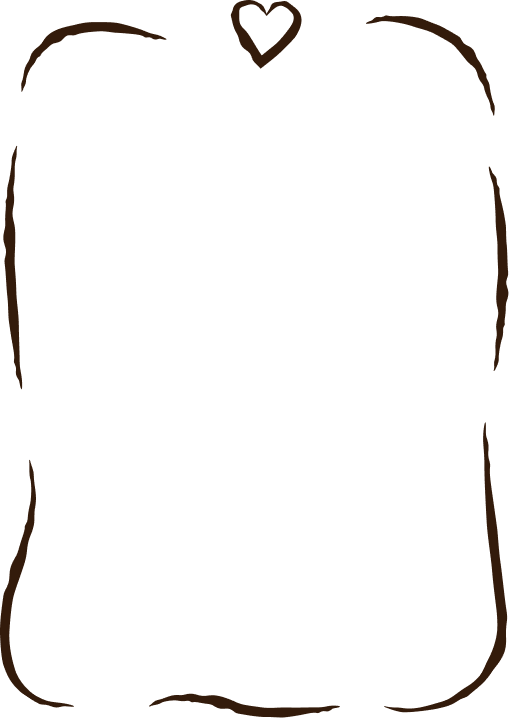
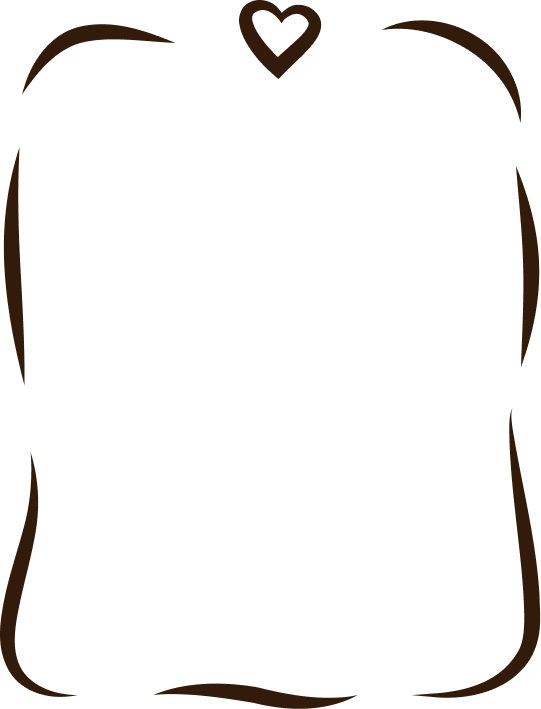
new border and styles

diff --git a/js/script.js b/js/script.js
@@ -3,10 +3,16 @@ $(document).ready(function () {
     const $wrapper = $('.main_wrapper');
     const $body = $('body');
 
+    // Проверяем существование элемента
+    if ($path.length === 0) {
+        console.error('Элемент #myPath не найден');
+        return;
+    }
+
     // Получаем длину линии
     const length = $path[0].getTotalLength();
 
-    // Настраиваем пунктир: линия полностью видна изначально
+    // Настраиваем пунктир
     $path.css({
         'strokeDasharray': length,
         'strokeDashoffset': 0
@@ -16,13 +22,11 @@ $(document).ready(function () {
 
     // Кнопка "Стереть"
     $('#eraseBtn').on('click', function () {
-        // Анимация линии
         $path.css({
             'transition': 'stroke-dashoffset 1s ease-out',
             'strokeDashoffset': length
         });
 
-        // Через 1 секунду после нажатия анимируем main_wrapper
         setTimeout(function () {
             $wrapper.css({
                 'transition': 'transform 0.5s ease-out, opacity 0.5s ease-out',
@@ -30,9 +34,8 @@ $(document).ready(function () {
                 'opacity': '0'
             });
 
-            $body.css({'overflow': 'auto'});
+            $body.css({'overflow-x': 'hidden','overflow-y': 'auto'});
 
-            // После завершения анимации скрываем блок
             setTimeout(function () {
                 $wrapper.css('display', 'none');
             }, 500);
@@ -41,22 +44,33 @@ $(document).ready(function () {
 });
 
 $(document).ready(function() {
+    // ПРОВЕРЯЕМ СУЩЕСТВОВАНИЕ ЭЛЕМЕНТА
     var path = $('#sPath')[0];
+    if (!path) {
+        console.warn('Элемент #sPath не найден, скрипт анимации линии пропущен');
+        return; // Выходим, если элемента нет
+    }
+    
     var length = path.getTotalLength();
     var $container = $('.svg-container');
     var $window = $(window);
     var $heart = $('.heart-icon');
     
-    // Изначально линия скрыта, сердечко в начале пути
+    // Проверяем остальные элементы
+    if ($container.length === 0 || $heart.length === 0) {
+        console.warn('Не найдены .svg-container или .heart-icon');
+        return;
+    }
+    
     path.style.strokeDasharray = length;
     path.style.strokeDashoffset = length;
     
-    // Устанавливаем сердечко в начало линии
     function setHeartAtProgress(progress) {
         var point = path.getPointAtLength(progress * length);
         var svg = $('svg')[0];
-        var svgRect = svg.getBoundingClientRect();
+        if (!svg) return;
         
+        var svgRect = svg.getBoundingClientRect();
         var heartX = svgRect.left + point.x;
         var heartY = svgRect.top + point.y;
         
@@ -72,27 +86,21 @@ $(document).ready(function() {
         var windowHeight = $window.height();
         var windowCenter = scrollTop + windowHeight / 2;
         
-        // Прогресс от начала линии до конца (0-1)
         var lineStart = containerTop;
         var lineEnd = containerBottom;
         
         var progress = (windowCenter - lineStart) / (lineEnd - lineStart);
         progress = Math.min(1, Math.max(0, progress));
         
-        // Рисуем линию
         var drawnLength = progress * length;
         path.style.strokeDashoffset = length - drawnLength;
-        
-        // Двигаем сердечко ровно на столько же, сколько отрисовано
         setHeartAtProgress(progress);
     }
     
-    // Запускаем при скролле
     $window.on('scroll resize', function() {
         requestAnimationFrame(update);
     });
     
-    // Запускаем при загрузке
     update();
 });
 
@@ -111,11 +119,14 @@ function updateTimer() {
     const minutes = Math.floor((diff % (1000 * 60 * 60)) / (1000 * 60));
     const seconds = Math.floor((diff % (1000 * 60)) / 1000);
     
-    document.getElementById('timer').textContent = 
-        String(days).padStart(2, '0') + ':' +
-        String(hours).padStart(2, '0') + ':' +
-        String(minutes).padStart(2, '0') + ':' +
-        String(seconds).padStart(2, '0');
+    const timerElement = document.getElementById('timer');
+    if (timerElement) {
+        timerElement.textContent = 
+            String(days).padStart(2, '0') + ':' +
+            String(hours).padStart(2, '0') + ':' +
+            String(minutes).padStart(2, '0') + ':' +
+            String(seconds).padStart(2, '0');
+    }
 }
 
 updateTimer();

diff --git a/index.html b/index.html
@@ -10,6 +10,7 @@
   <link href="https://fonts.googleapis.com/css2?family=Montserrat:ital,wght@0,100..900;1,100..900&display=swap"
     rel="stylesheet">
   <link rel="preload" href="font/stylesheet.css" as="font" type="font/woff2" crossorigin>
+  <meta name="viewport" content="width=device-width, initial-scale=1.0">
 </head>
 
 <body>
@@ -127,7 +128,7 @@
             <div style="font-size: 40px;">Ресторан «ТАНГО»</div>
             <div>c. Кулунда, ул.Ленина 6Б</div>
           </div>
-          <a href="ya.ru" class="btn" target="_blank">Открыть карту</a>
+          <a href="https://yandex.ru/maps/-/CPvEf8lB" class="btn" target="_blank">Открыть карту</a>
         </div>
       </div>
 
@@ -143,7 +144,8 @@
 
     <div class="dress_code-container">
       <h2>Дресс - код</h2>
-      <p>Мы создаем наш свадебный день с особым трепетом. И нам будет очень приятно если вы поддержите цветовую гамму:</p>
+      <p>Мы создаем наш свадебный день с особым трепетом. И нам будет очень приятно если вы поддержите цветовую гамму:
+      </p>
       <div class="dress_code-wrapper">
         <img src="img/cloth.png" alt="">
         <img src="img/cloth1.png" alt="">
@@ -164,6 +166,7 @@
 
   <script src="https://code.jquery.com/jquery-3.7.1.min.js"></script>
   <script src="js/script.js"></script>
+
 
 </body>
 

diff --git a/css/style.css b/css/style.css
@@ -224,3 +224,57 @@ svg {
     width: 100px;
     margin-left: -20px;
 }
+
+@media (max-width: 768px) {
+    body {
+        overflow-x: hidden;
+    }
+
+    .main_content {
+        max-width: 70%;
+        margin: 0 auto;
+        padding-top: 50px;
+        display: flex;
+        flex-direction: column;
+        gap: 50px;
+    }
+
+    .border_wrapper {
+        display: flex;
+        flex-direction: column;
+        gap: 10px;
+        max-width: 80%;
+        margin: 0 auto;
+        height: 400px;
+        justify-content: center;
+        align-items: center;
+    }
+
+
+    .dress_code-wrapper img {
+        width: 68px;
+        margin-left: -20px;
+    }
+
+    .svg-container {
+        transform: unset !important;
+
+    }
+
+    .events-item {
+        display: flex;
+        flex-direction: column;
+        align-items: center;
+        gap: 10px;
+        mix-blend-mode: darken;
+        transform: translate(-25%, 0);
+    }
+
+    .events-item:nth-child(even) {
+        transform: translate(25%, 0) !important;
+    }
+
+    div {
+        font-size: 25px;
+    }
+}
